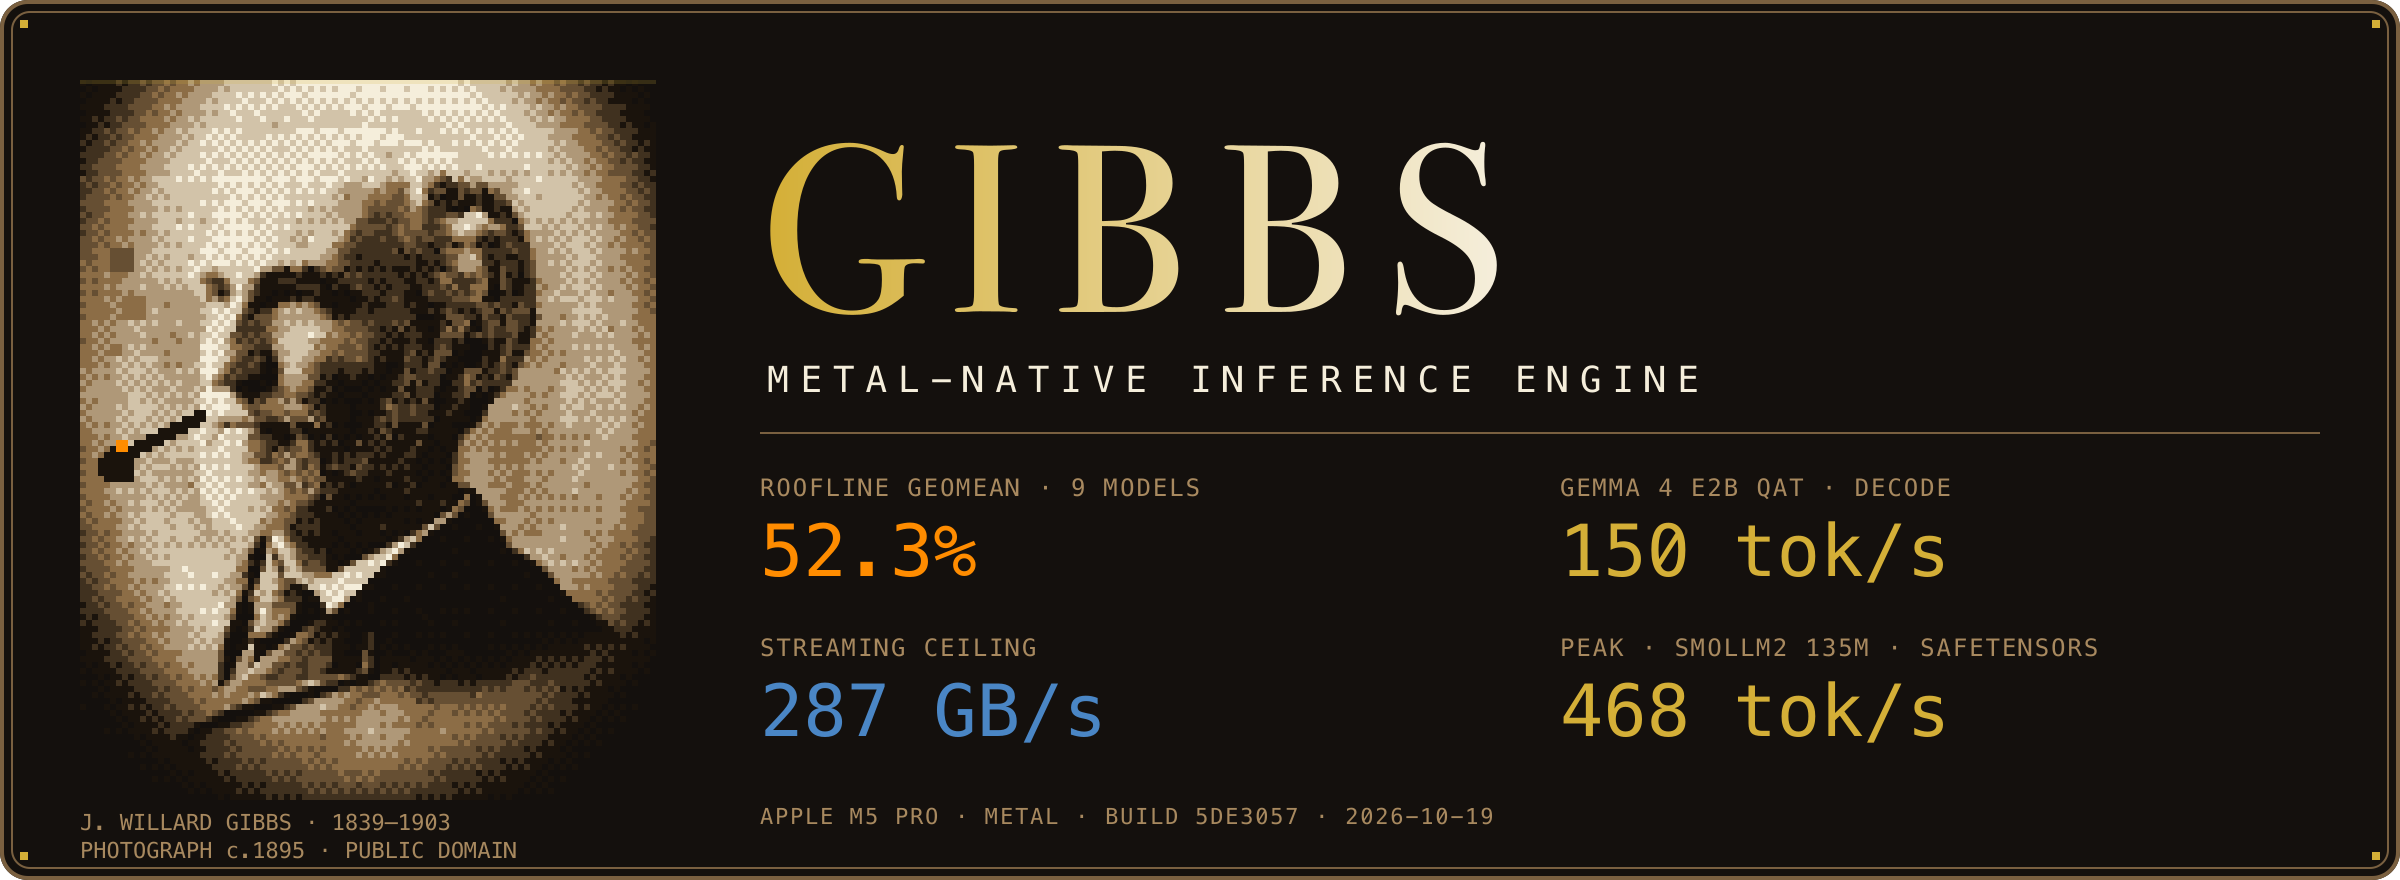
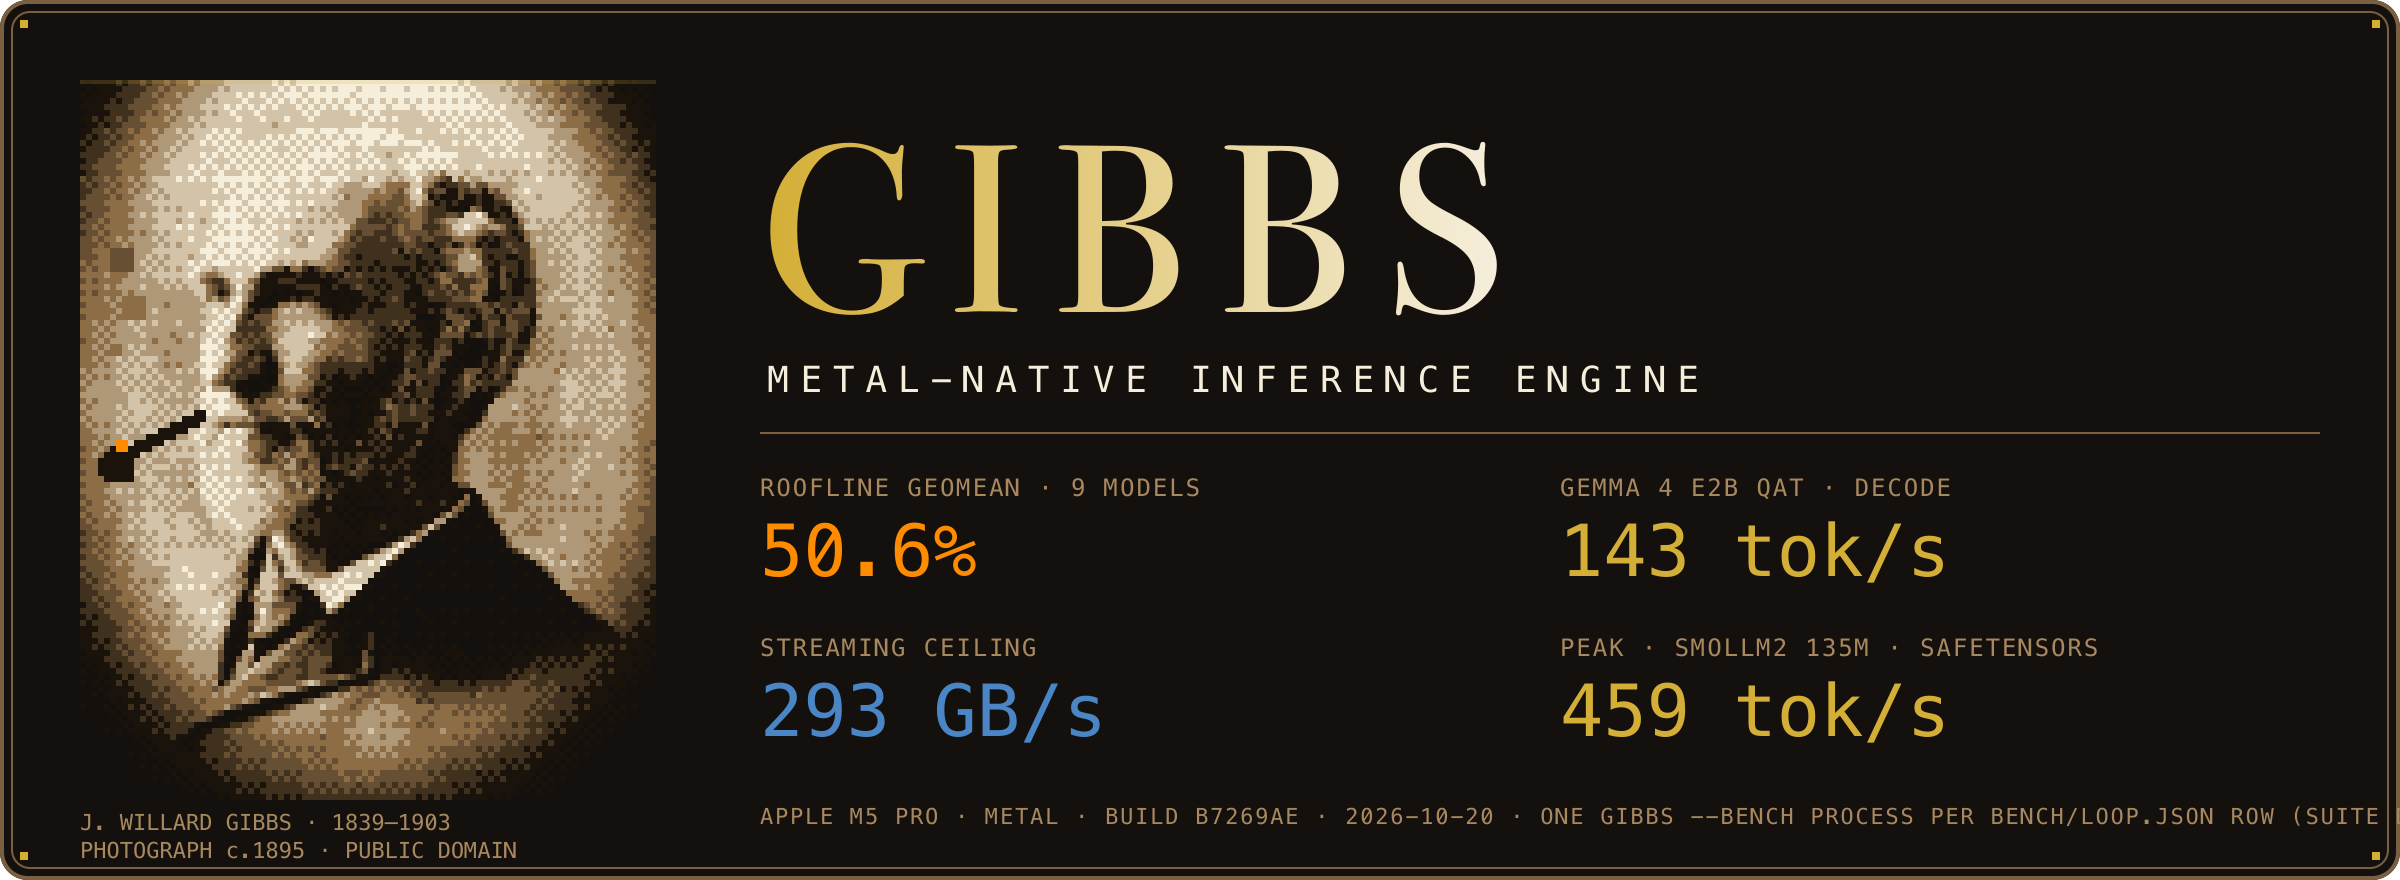
docs: README bench refresh for the sprint 3 merge (one bench process per row); 6.1 gen64 picks are sprint3-hash only; short-leg note on s3-q ledger rows

diff --git a/README.md b/README.md
@@ -17,18 +17,20 @@ Gibbs is an LLM inference engine in Rust for Apple Silicon. Models are described
 <!-- gibbs-bench:begin -->
 | Model | Decode tok/s | % of roofline | Roofline tok/s | GPU ms/token | Host ms/token | Dispatches/token |
 | :--- | ---: | ---: | ---: | ---: | ---: | ---: |
-| Gemma 4 E2B QAT · UD-Q2_K_XL | 150.1 | 43.8% | 342 | 6.36 | 0.30 | 506 |
-| Gemma 4 E2B · Q4_K_M | 107.4 | 55.2% | 195 | 8.92 | 0.39 | 509 |
-| Qwen3.5 2B · UD-Q4_K_XL | 113.7 | 52.7% | 216 | 8.51 | 0.28 | 412 |
-| Qwen3.5 9B (DavidAU MTP) · IQ2_M | 41.3 | 64.7% | 64 | 23.81 | 0.40 | 570 |
-| Llama 3.2 1B · Q4_0 | 254.0 | 67.7% | 375 | 3.65 | 0.28 | 147 |
-| SmolLM2 135M · safetensors | 468.1 | 43.9% | 1067 | 1.90 | 0.24 | 273 |
-| Llama 3.2 1B · bnb 4-bit | 224.8 | 60.0% | 375 | 4.13 | 0.32 | 147 |
-| Gemma 4 26B-A4B · UD-IQ2_XXS | 72.2 | 54.9% | 132 | 13.48 | 0.37 | 658 |
-| Gemma 4 E2B QAT · 4k context | 125.1 | 36.5% | 342 | 7.70 | 0.29 | 506 |
-| **Geomean** | | **52.3%** | | | | |
+| Gemma 4 E2B QAT · UD-Q2_K_XL | 143.3 | 41.0% | 349 | 6.38 | 0.59 | 506 |
+| Gemma 4 E2B · Q4_K_M | 105.9 | 53.4% | 198 | 9.15 | 0.28 | 509 |
+| Qwen3.5 2B · UD-Q4_K_XL | 124.9 | 55.5% | 225 | 7.40 | 0.61 | 304 |
+| Qwen3.5 9B (DavidAU MTP) · IQ2_M | 40.4 | 62.0% | 65 | 24.37 | 0.37 | 402 |
+| Llama 3.2 1B · Q4_0 | 248.1 | 64.8% | 383 | 3.62 | 0.41 | 147 |
+| SmolLM2 135M · safetensors | 459.4 | 42.2% | 1088 | 1.89 | 0.29 | 273 |
+| Llama 3.2 1B · bnb 4-bit | 222.3 | 58.1% | 382 | 4.04 | 0.45 | 147 |
+| Gemma 4 26B-A4B · UD-IQ2_XXS | 71.3 | 53.1% | 134 | 13.95 | 0.08 | 658 |
+| Gemma 4 E2B QAT · 4k context | 119.7 | 34.2% | 349 | 8.20 | 0.15 | 506 |
+| **Geomean** | | **50.6%** | | | | |
 
-Apple M5 Pro, Metal, measured streaming ceiling 286.9 GB/s. Binary built from `5de3057` (2026-10-19); `gibbs --bench bench/loop.json`: 128 decode tokens, median of 3 runs, `--reencode max-speed`; raw rows in [`autoresearch/bench-readme.jsonl`](autoresearch/bench-readme.jsonl). Roofline = ceiling ÷ bytes one decode step streams (`bytes_basis` in each row). 0 of 9 models reach the 90% roofline target; Gemma 4 E2B QAT decodes at 150.1 tok/s against its 150 tok/s target.
+Apple M5 Pro, Metal, measured streaming ceiling 292.7 GB/s. Binary built from `b7269ae` (2026-10-20); `gibbs --bench bench/loop.json`: 128 decode tokens, median of 3 runs, `--reencode max-speed`; raw rows in [`autoresearch/bench-readme.jsonl`](autoresearch/bench-readme.jsonl). Roofline = ceiling ÷ bytes one decode step streams (`bytes_basis` in each row). 0 of 9 models reach the 90% roofline target; Gemma 4 E2B QAT decodes at 143.3 tok/s against its 150 tok/s target.
+
+> one gibbs --bench process per bench/loop.json row (suite defaults: 128 tokens, 3 runs)
 <!-- gibbs-bench:end -->
 
 System 1 (CPU / Metal / ANE), ModelScope and Stable Diffusion timings from earlier releases are not shown: they were not re-measured on this build.
@@ -44,36 +46,36 @@ cargo run --release --example gibbs_art   # regenerates the hero, charts and the
 <img src="assets/gibbs-compare.svg" alt="Two bar charts: Gibbs and llama.cpp decode speed on the same M5 Pro and GGUF files, and effective bandwidth as a percent of the M5 Pro's 307 GB/s spec for llama.cpp's published Llama 2 7B results and every Gibbs suite model" width="100%">
 
 <!-- gibbs-compare:begin -->
-**Same machine, same GGUF files.** llama.cpp: `llama-bench tg128, Metal`, Homebrew llama.cpp 0.6.0_1 (ggml 0.26.0), 2026-10-13, recorded in [`autoresearch/roofline-loop-notes.md`](autoresearch/roofline-loop-notes.md) (iteration 6); not re-measured since. Gibbs: the table above (build `5de3057`, 2026-10-19).
+**Same machine, same GGUF files.** llama.cpp: `llama-bench tg128, Metal`, Homebrew llama.cpp 0.6.0_1 (ggml 0.26.0), 2026-10-13, recorded in [`autoresearch/roofline-loop-notes.md`](autoresearch/roofline-loop-notes.md) (iteration 6); not re-measured since. Gibbs: the table above (build `b7269ae`, 2026-10-20).
 
 | Model | Gibbs tok/s | llama.cpp tok/s | Gibbs ÷ llama.cpp | Gibbs % of roofline | llama.cpp % of Gibbs roofline |
 | :--- | ---: | ---: | ---: | ---: | ---: |
-| Gemma 4 E2B QAT · UD-Q2_K_XL | 150.1 | 150.7 | 1.00× | 43.8% | 44.0% |
-| Gemma 4 E2B · Q4_K_M | 107.4 | 121.8 | 0.88× | 55.2% | 62.6% |
-| Qwen3.5 2B · UD-Q4_K_XL | 113.7 | 148.3 | 0.77× | 52.7% | 68.7% |
-| Qwen3.5 9B (DavidAU MTP) · IQ2_M | 41.3 | 43.2 | 0.96× | 64.7% | 67.7% |
-| Llama 3.2 1B · Q4_0 | 254.0 | 269.0 | 0.94× | 67.7% | 71.7% |
+| Gemma 4 E2B QAT · UD-Q2_K_XL | 143.3 | 150.7 | 0.95× | 41.0% | 43.1% |
+| Gemma 4 E2B · Q4_K_M | 105.9 | 121.8 | 0.87× | 53.4% | 61.4% |
+| Qwen3.5 2B · UD-Q4_K_XL | 124.9 | 148.3 | 0.84× | 55.5% | 65.9% |
+| Qwen3.5 9B (DavidAU MTP) · IQ2_M | 40.4 | 43.2 | 0.94× | 62.0% | 66.3% |
+| Llama 3.2 1B · Q4_0 | 248.1 | 269.0 | 0.92× | 64.8% | 70.3% |
 
 llama.cpp % of Gibbs roofline = llama.cpp tok/s ÷ Gibbs roofline tok/s (the bytes Gibbs streams per decode step), so both percentage columns share one scale. No llama.cpp number for: SmolLM2 135M · safetensors, Llama 3.2 1B · bnb 4-bit, Gemma 4 26B-A4B · UD-IQ2_XXS, Gemma 4 E2B QAT · 4k context.
 
 **Best published result on this chip.** [ggml-org/llama.cpp#4167](https://github.com/ggml-org/llama.cpp/discussions/4167) lists an Apple M5 Pro, 16-core GPU (Apple spec 307 GB/s) running Llama 2 7B, `tg128`, llama.cpp `60081bb`:
 
-| Engine · model | Bytes per token | tok/s | Effective GB/s | % of 307 GB/s spec | % of Gibbs's 286.9 GB/s ceiling |
+| Engine · model | Bytes per token | tok/s | Effective GB/s | % of 307 GB/s spec | % of Gibbs's 292.7 GB/s ceiling |
 | :--- | ---: | ---: | ---: | ---: | ---: |
-| llama.cpp · Llama 2 7B F16 | 13.48 GB | 21.4 | 288.2 | 93.9% | 100.5% |
-| llama.cpp · Llama 2 7B Q8_0 | 7.16 GB | 38.9 | 278.9 | 90.8% | 97.2% |
-| llama.cpp · Llama 2 7B Q4_0 | 3.79 GB | 67.6 | 256.2 | 83.4% | 89.3% |
-| Gibbs · Qwen3.5 9B (DavidAU MTP) · IQ2_M | 4.49 GB | 41.3 | 185.6 | 60.5% | 64.7% |
-| Gibbs · Gemma 4 26B-A4B · UD-IQ2_XXS | 2.18 GB | 72.2 | 157.4 | 51.3% | 54.9% |
-| Gibbs · Gemma 4 E2B · Q4_K_M | 1.47 GB | 107.4 | 158.5 | 51.6% | 55.2% |
-| Gibbs · Qwen3.5 2B · UD-Q4_K_XL | 1.33 GB | 113.7 | 151.1 | 49.2% | 52.7% |
-| Gibbs · Gemma 4 E2B QAT · UD-Q2_K_XL | 0.84 GB | 150.1 | 125.8 | 41.0% | 43.8% |
-| Gibbs · Gemma 4 E2B QAT · 4k context | 0.84 GB | 125.1 | 104.8 | 34.1% | 36.5% |
-| Gibbs · Llama 3.2 1B · bnb 4-bit | 0.77 GB | 224.8 | 172.1 | 56.1% | 60.0% |
-| Gibbs · Llama 3.2 1B · Q4_0 | 0.76 GB | 254.0 | 194.3 | 63.3% | 67.7% |
-| Gibbs · SmolLM2 135M · safetensors | 0.27 GB | 468.1 | 125.9 | 41.0% | 43.9% |
+| llama.cpp · Llama 2 7B F16 | 13.48 GB | 21.4 | 288.2 | 93.9% | 98.5% |
+| llama.cpp · Llama 2 7B Q8_0 | 7.16 GB | 38.9 | 278.9 | 90.8% | 95.3% |
+| llama.cpp · Llama 2 7B Q4_0 | 3.79 GB | 67.6 | 256.2 | 83.4% | 87.5% |
+| Gibbs · Qwen3.5 9B (DavidAU MTP) · IQ2_M | 4.49 GB | 40.4 | 181.6 | 59.2% | 62.0% |
+| Gibbs · Gemma 4 26B-A4B · UD-IQ2_XXS | 2.18 GB | 71.3 | 155.4 | 50.6% | 53.1% |
+| Gibbs · Gemma 4 E2B · Q4_K_M | 1.47 GB | 105.9 | 156.3 | 50.9% | 53.4% |
+| Gibbs · Qwen3.5 2B · UD-Q4_K_XL | 1.30 GB | 124.9 | 162.3 | 52.9% | 55.5% |
+| Gibbs · Gemma 4 E2B QAT · UD-Q2_K_XL | 0.84 GB | 143.3 | 120.1 | 39.1% | 41.0% |
+| Gibbs · Gemma 4 E2B QAT · 4k context | 0.84 GB | 119.7 | 100.2 | 32.7% | 34.2% |
+| Gibbs · Llama 3.2 1B · bnb 4-bit | 0.77 GB | 222.3 | 170.2 | 55.4% | 58.1% |
+| Gibbs · Llama 3.2 1B · Q4_0 | 0.76 GB | 248.1 | 189.7 | 61.8% | 64.8% |
+| Gibbs · SmolLM2 135M · safetensors | 0.27 GB | 459.4 | 123.6 | 40.2% | 42.2% |
 
-Effective GB/s = bytes per token × tok/s; llama.cpp's bytes are the GGUF file size, Gibbs's are the bytes one decode step streams. The file size includes the token-embedding table, of which a decode step reads one row, so the llama.cpp rates are slight upper bounds. On 3.8–13.5 GB per token, llama.cpp streams at 83–94% of the 307 GB/s spec; its F16 run reaches 288 GB/s, 100.5% of the 286.9 GB/s ceiling Gibbs measures. The Gibbs suite streams 0.27–4.49 GB per token; its highest row is Llama 3.2 1B · Q4_0 at 63.3% of spec. There is no Gibbs run of Llama 2 7B, so this table compares different models on one chip. The work aimed at the remaining per-token time is in [`plans/research-sprint-3.md`](plans/research-sprint-3.md).
+Effective GB/s = bytes per token × tok/s; llama.cpp's bytes are the GGUF file size, Gibbs's are the bytes one decode step streams. The file size includes the token-embedding table, of which a decode step reads one row, so the llama.cpp rates are slight upper bounds. On 3.8–13.5 GB per token, llama.cpp streams at 83–94% of the 307 GB/s spec; its F16 run reaches 288 GB/s, 98.5% of the 292.7 GB/s ceiling Gibbs measures. The Gibbs suite streams 0.27–4.49 GB per token; its highest row is Llama 3.2 1B · Q4_0 at 61.8% of spec. There is no Gibbs run of Llama 2 7B, so this table compares different models on one chip. The work aimed at the remaining per-token time is in [`plans/research-sprint-3.md`](plans/research-sprint-3.md).
 <!-- gibbs-compare:end -->
 
 ## Quickstart

diff --git a/plans/research-sprint-3.md b/plans/research-sprint-3.md
@@ -82,10 +82,10 @@ GPU contact that did happen, against the instruction:
 | L13 `GIBBS_SPECIALIZE=on` (`s3/l13-specialize`) | E2B 0.956 | −1.11 | discard, not merged |
 | 6.2 Q4_K `fused_dot` (`s3/q4k-fused-dot`) | E2B Q4_K_M 0.973 | −0.86 | discard, not merged (the kernel-level +2% did not survive the model) |
 
-- 6.1: after the quiet loads the tuner picked `gen64` on 4 of 48 Q4_K/Q5_K/Q6_K shapes (Q5_K 512/2048/6144 rows), each within 2% of `gen/r1`.
+- 6.1: the tune file holds 4 `gen64` picks (Q5_K 512/2048/6144-row shapes, each within 2% of `gen/r1`), all under the sprint3 `8cbbd9e` kernel hash `a58061…`. Under every other K-quant hash, including those the merged build tuned during the short A/Bs, the tuner picked `gen64` on 0 shapes.
 - Parity on `s3/final`: 5 reference rows and M1, M3 at min cosine 1.00000; M7 cannot run there (the CPU leg has no Gemma 4 MoE host forward).
 - `cargo test --lib` on `s3/final`: 861 passed, 0 failed; the kernel compile test and the guard's integration tests pass.
-- README bench numbers are not regenerated (that needs a full-length `gibbs --bench bench/loop.json`).
+- README bench numbers regenerated at `b7269ae` (one `gibbs --bench` process per suite row, suite defaults).
 
 ## Baseline (`main` @ `5de3057`, README rows = `bg_232` cand1 pass)
 
